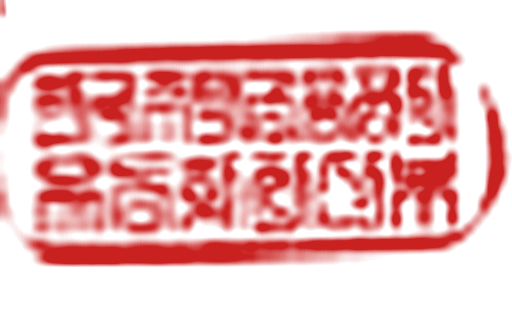
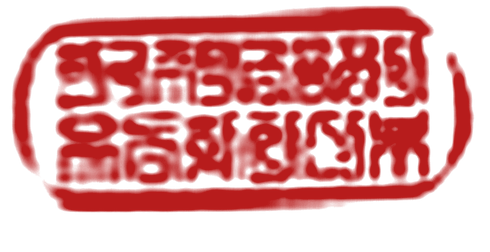
feat: 촉탁 문구 하단 섹션 테두리 박스 처리 및 직인 개선
- 촉탁 문구~신청인~담당자 부분을 테두리 박스로 감싸(첨부서면 박스와 연결),
  '귀중'은 박스 아래 배치
- 직인(약인)을 '사장 김 경 환' 오른쪽에 겹치지 않게 배치
- 직인 이미지를 고해상도로 재추출(업스케일·노이즈제거·샤프닝)해 선명도 향상
- 사장 표기를 '사장 김 경 환'(자간)으로 통일

Claude-Session: https://claude.ai/code/session_01CzrV5Ue1nQYik2zBE4LqAK

diff --git a/choktak/pdf_builder.py b/choktak/pdf_builder.py
@@ -265,32 +265,41 @@ def build_page(sheet, ctx):
         s.text(LEFT + 8, ay + i * 13, line, size=8)
     for i, line in enumerate(config.ATTACHMENTS_RIGHT):
         s.text(LEFT + WIDTH / 2 + 8, ay + i * 13, line, size=8)
-    top += att_h + 6
+    top += att_h
 
-    # ── 9. 촉탁 문구 ──
-    s.text(PAGE_W / 2, top, config.COMMISSION_CLAUSE, size=9, font=R, align="center")
-    top += 20
-
-    # ── 10. 날짜 ──
-    s.text(PAGE_W / 2, top,
+    # ── 9. 촉탁 문구 ~ 신청인 (테두리 박스로 감쌈) ──
+    box_top = top
+    cur = box_top + 14
+    # 촉탁 문구
+    s.text(PAGE_W / 2, cur, config.COMMISSION_CLAUSE, size=9, font=R, align="center")
+    cur += 24
+    # 날짜
+    s.text(PAGE_W / 2, cur,
            f"{ctx['today_year']} 년    {ctx['today_month']:0>2} 월    {ctx['today_day']:0>2} 일",
            size=9.5, font=R, align="center")
-    top += 20
-
-    # ── 11. 신청인 ──
-    s.text(PAGE_W / 2, top, f"위 신청인   {config.CREDITOR_NAME}", size=9.5, font=R, align="center")
-    top += 15
-    ceo_top = top
-    s.text(PAGE_W / 2 + 30, top, config.CREDITOR_CEO, size=9.5, font=R, align="center")
-    # 직인(약인) 날인 — 사장 서명 오른쪽에 겹쳐 찍음
+    cur += 22
+    # 위 신청인
+    s.text(PAGE_W / 2, cur, f"위 신청인      {config.CREDITOR_NAME}", size=9.5, font=R, align="center")
+    cur += 20
+    # 사장 + 직인(약인) 날인 (겹치지 않게 이름 오른쪽에)
+    ceo_top = cur
+    ceo_cx = PAGE_W / 2 + 20
+    s.text(ceo_cx, cur, config.CREDITOR_CEO, size=9.5, font=R, align="center")
     if config.SEAL_ENABLED and os.path.exists(config.SEAL_IMAGE):
-        s.image(config.SEAL_IMAGE, PAGE_W / 2 + 40,
-                ceo_top - 13, config.SEAL_WIDTH, config.SEAL_HEIGHT)
-    top += 15
-    s.text(PAGE_W / 2 + 30, top, f"(담당자 : {config.CREDITOR_CONTACT})", size=8.5, font=R, align="center")
-    top += 26
+        sw, sh = config.SEAL_WIDTH, config.SEAL_HEIGHT
+        seal_left = ceo_cx + 55                    # 이름 오른쪽, 겹치지 않도록 간격
+        s.image(config.SEAL_IMAGE, seal_left,
+                ceo_top + 4.75 - sh / 2, sw, sh)   # 이름 줄 세로 중앙에 맞춤
+    cur += 20
+    # 담당자
+    s.text(ceo_cx, cur, f"(담당자 : {config.CREDITOR_CONTACT})", size=8.5, font=R, align="center")
+    cur += 16
+    # 박스 테두리 (첨부서면 아래에 이어 그림)
+    s.rect(LEFT, box_top, WIDTH, cur - box_top)
+    top = cur
 
-    # ── 12. 관할등기소 귀중 (ExtraBold) ──
+    # ── 10. 관할등기소 귀중 (박스 아래, ExtraBold) ──
+    top += 20
     s.text(PAGE_W / 2, top, f"{ctx['registry_office']} 귀중", size=13, font=XB, align="center")
 
 

diff --git a/choktak/config.py b/choktak/config.py
@@ -45,7 +45,7 @@ FONT_NAME_EXTRABOLD = "NanumGothic-ExtraBold"
 # ─── 등기권리자 (고정값: 한국주택금융공사) ─────────────────
 # 한국주택금융공사법 제28조에 따른 촉탁신청 → 등기권리자는 항상 공사
 CREDITOR_NAME = "한국주택금융공사"
-CREDITOR_CEO = "사장 김경환"
+CREDITOR_CEO = "사장 김 경 환"
 CREDITOR_REG_NO = "110171-0029402"          # 등기용등록번호
 CREDITOR_ADDRESS = "부산광역시 남구 문현금융로40(문현동, 부산국제금융센터)"
 CREDITOR_CONTACT = "02-2638-1988"
@@ -55,8 +55,8 @@ CREDITOR_CONTACT = "02-2638-1988"
 # 실제 운영 시 고해상도 공식 직인 PNG로 교체하면 됨.
 SEAL_IMAGE = os.environ.get("CHOKTAK_SEAL", os.path.join(DATA_DIR, "seal.png"))
 SEAL_ENABLED = os.environ.get("CHOKTAK_SEAL_ENABLED", "true").lower() == "true"
-SEAL_WIDTH = 66    # pt
-SEAL_HEIGHT = 40   # pt
+SEAL_WIDTH = 62    # pt
+SEAL_HEIGHT = 38   # pt (preserveAspectRatio로 폭에 맞춰 축소됨)
 
 # ─── 고정 문구/금액 ────────────────────────────────────────
 REG_PURPOSE = "근저당권이전"                # 등기의 목적
